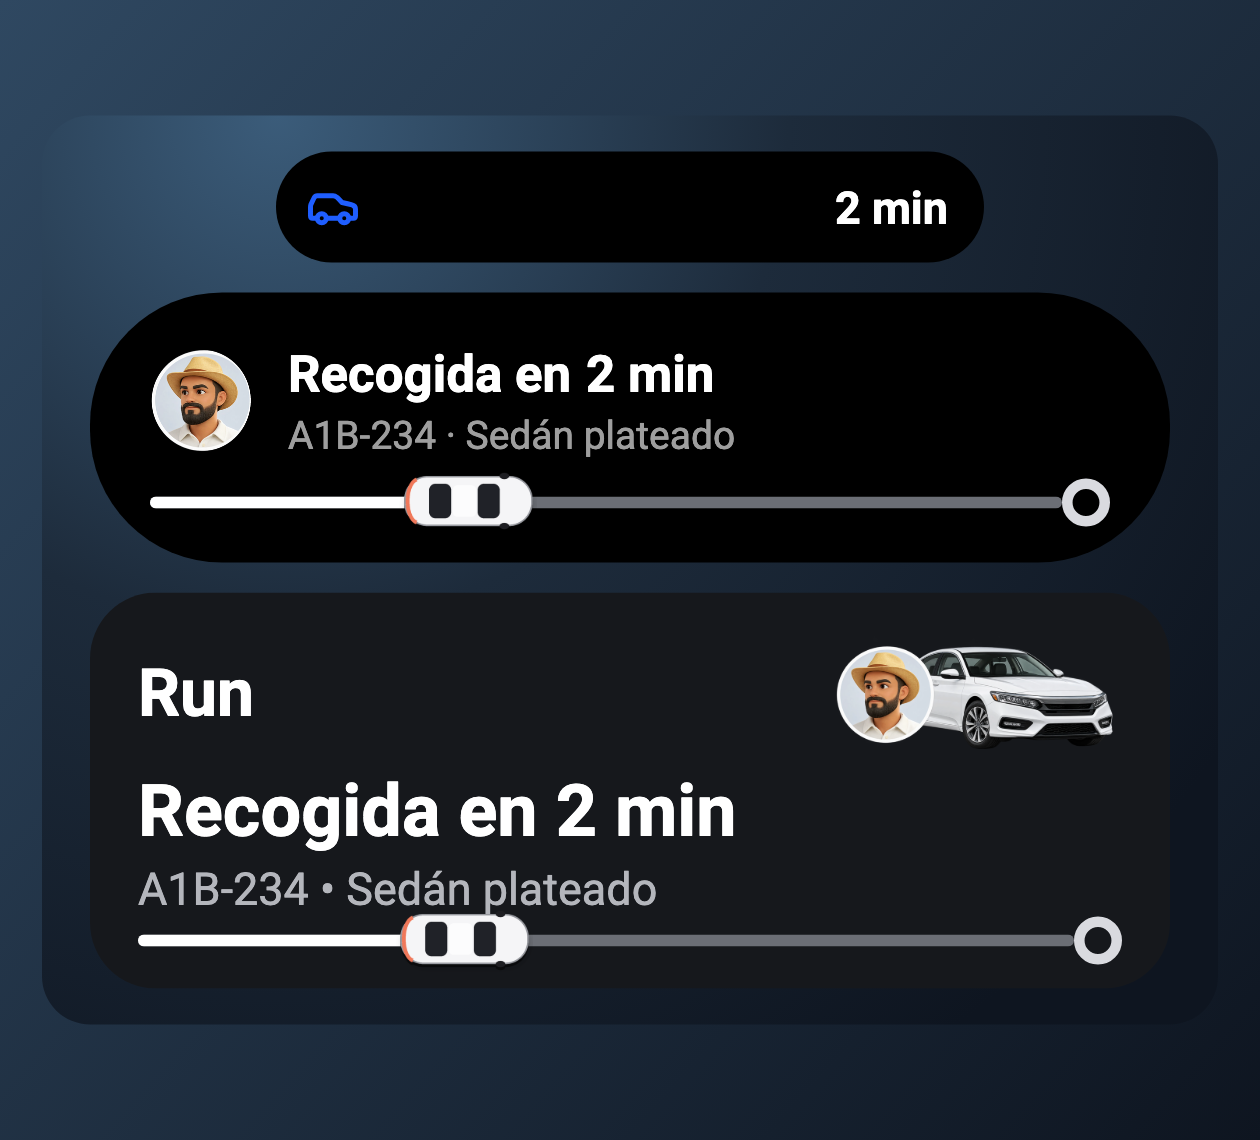
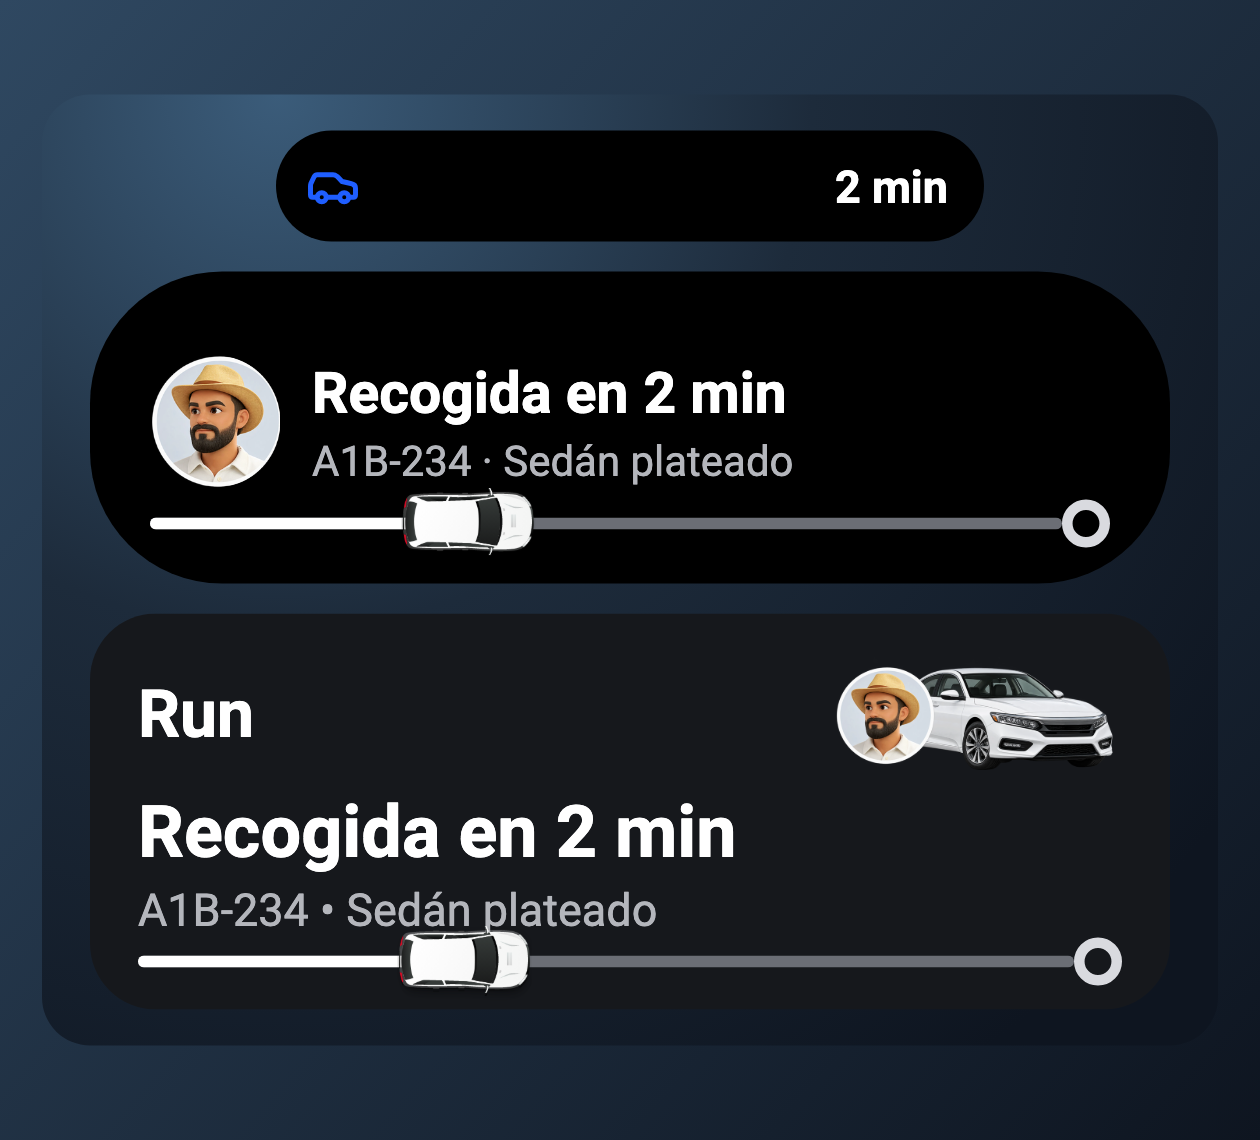
feat: nuevo auto visto desde arriba para todas las barras de progreso
Se reemplaza assets/presets/car_top.png por el dibujo propio de Michael (auto
blanco con espejos, 212 x 113 px, transparente). Se actualizan sus proporciones en
los diseños, los goldens y las imágenes de la galería; el script de assets ya no
regenera ese archivo.

diff --git a/lib/src/presets/designs.dart b/lib/src/presets/designs.dart
@@ -221,8 +221,8 @@ final class RidePickupPreset extends LivePreset {
       trackerImage ??
           LiveImage.asset(
             liveDesignCarTopAsset,
-            width: 88,
-            height: 46,
+            width: 212,
+            height: 113,
             shape: LiveShape.square,
           ),
       height: 24,

diff --git a/lib/src/presets/designs_run.dart b/lib/src/presets/designs_run.dart
@@ -53,8 +53,8 @@ LiveTracker _tracker(LiveImage? image) => LiveTracker(
   image ??
       LiveImage.asset(
         liveDesignCarTopAsset,
-        width: 88,
-        height: 46,
+        width: 212,
+        height: 113,
         shape: LiveShape.square,
       ),
   height: 26,

diff --git a/tool/make_design_assets.py b/tool/make_design_assets.py
@@ -79,7 +79,8 @@ def crest(top, bottom, accent, name):
 
 if __name__ == '__main__':
     os.makedirs(OUT, exist_ok=True)
-    top_car().save(os.path.join(OUT, 'car_top.png'), optimize=True)
+    # car_top.png es un dibujo propio de Michael (auto blanco visto desde arriba):
+    # no se regenera con este script.
     side_car().save(os.path.join(OUT, 'car_side.png'), optimize=True)
     crest((16, 58, 140, 255), (200, 30, 50, 255), (240, 240, 245, 255), 'a').save(
         os.path.join(OUT, 'crest_a.png'), optimize=True)
